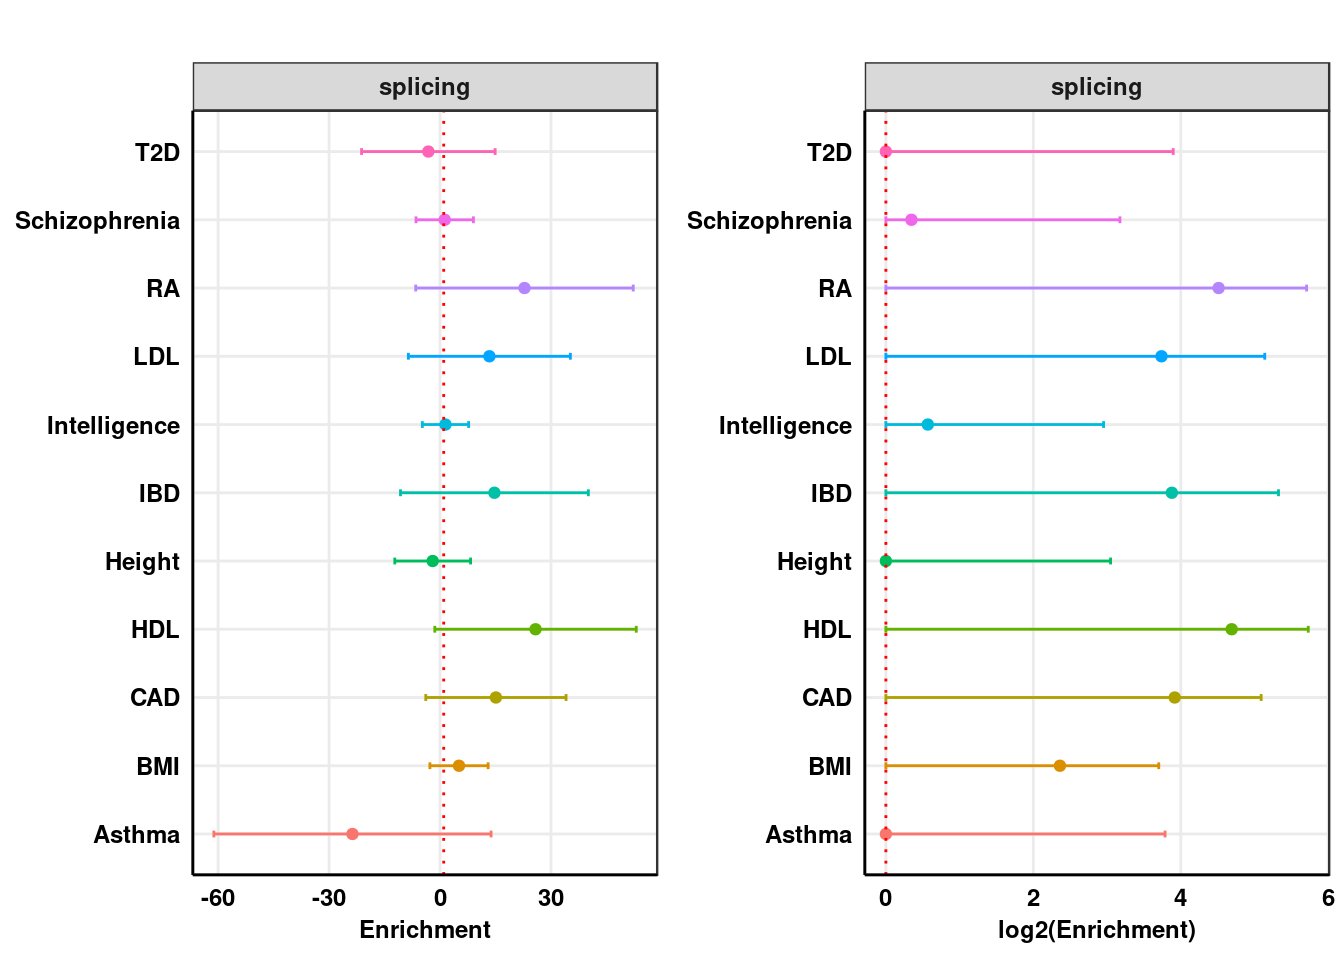
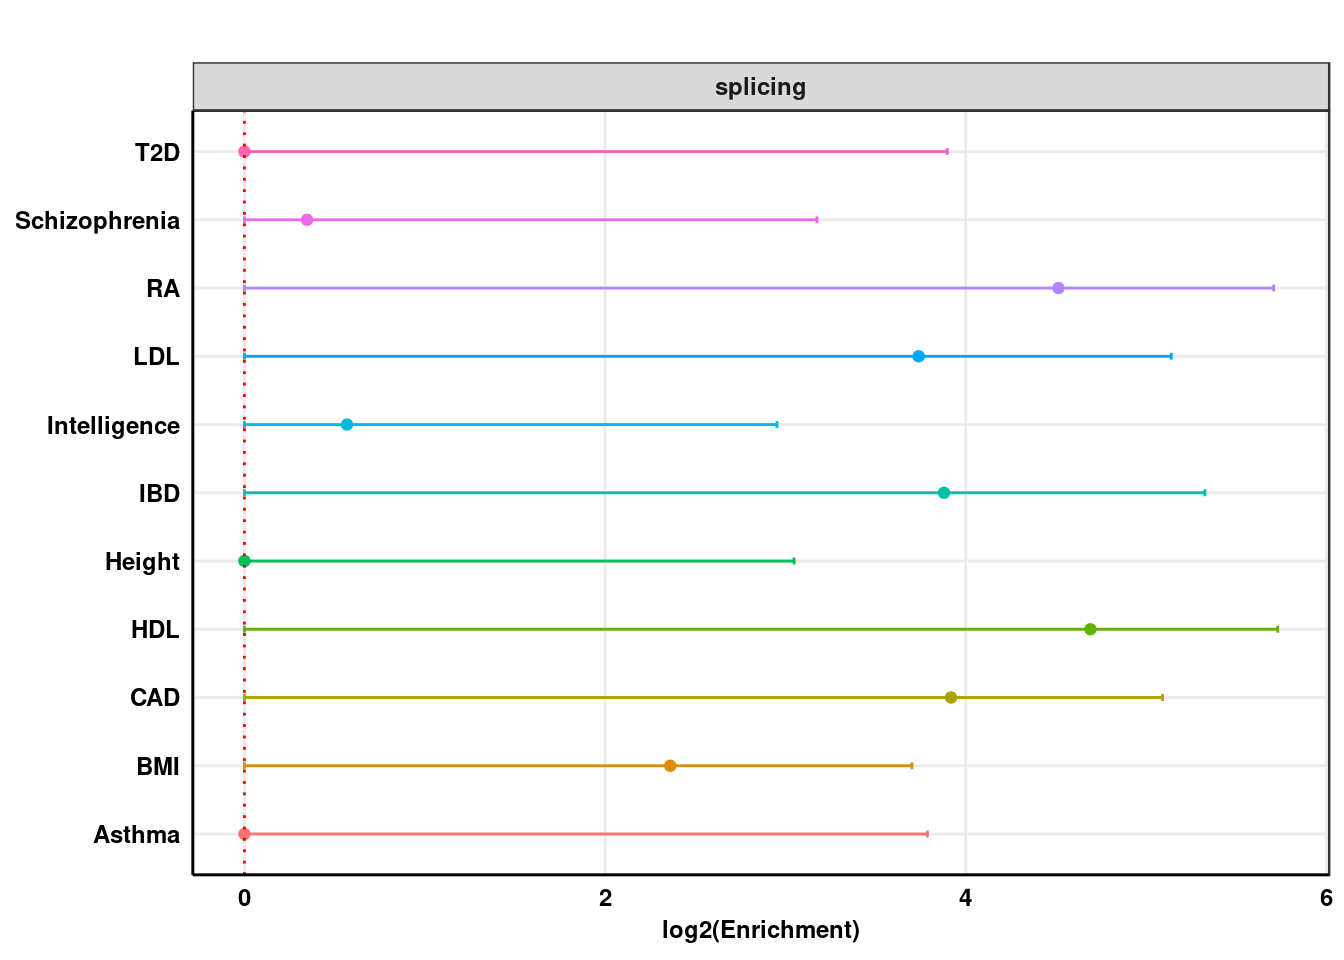
Build site.

diff --git a/docs/sldsc.html b/docs/sldsc.html
@@ -444,16 +444,16 @@ This reproducible <a href="http://rmarkdown.rstudio.com">R Markdown</a> analysis
 <div class="panel panel-default">
 <div class="panel-heading">
 <p class="panel-title">
-<a data-toggle="collapse" data-parent="#workflowr-checks" href="#strongRepositoryversionstrongahrefhttpsgithubcomcdu8sldscsplicingtree79129a3ffae62321b182454f900eae9be9ba866ctargetblank79129a3a"> <span class="glyphicon glyphicon-ok text-success" aria-hidden="true"></span> <strong>Repository version:</strong> <a href="https://github.com/cdu8/sldsc_splicing/tree/79129a3ffae62321b182454f900eae9be9ba866c" target="_blank">79129a3</a> </a>
+<a data-toggle="collapse" data-parent="#workflowr-checks" href="#strongRepositoryversionstrongahrefhttpsgithubcomcdu8sldscsplicingtree70a3cc1c9754718c9ce70edf172eb312eec6d9ectargetblank70a3cc1a"> <span class="glyphicon glyphicon-ok text-success" aria-hidden="true"></span> <strong>Repository version:</strong> <a href="https://github.com/cdu8/sldsc_splicing/tree/70a3cc1c9754718c9ce70edf172eb312eec6d9ec" target="_blank">70a3cc1</a> </a>
 </p>
 </div>
[2 lines of base64/hex data omitted]
 <div class="panel-body">
 <p>
 Great! You are using Git for version control. Tracking code development and connecting the code version to the results is critical for reproducibility.
 </p>
 <p>
-The results in this page were generated with repository version <a href="https://github.com/cdu8/sldsc_splicing/tree/79129a3ffae62321b182454f900eae9be9ba866c" target="_blank">79129a3</a>. See the <em>Past versions</em> tab to see a history of the changes made to the R Markdown and HTML files.
+The results in this page were generated with repository version <a href="https://github.com/cdu8/sldsc_splicing/tree/70a3cc1c9754718c9ce70edf172eb312eec6d9ec" target="_blank">70a3cc1</a>. See the <em>Past versions</em> tab to see a history of the changes made to the R Markdown and HTML files.
 </p>
 <p>
 Note that you need to be careful to ensure that all relevant files for the analysis have been committed to Git prior to generating the results (you can use <code>wflow_publish</code> or <code>wflow_git_commit</code>). workflowr only checks the R Markdown file, but you know if there are other scripts or data files that it depends on. Below is the status of the Git repository when the results were generated:
@@ -499,6 +499,40 @@ Message
 </tr>
 </thead>
 <tbody>
+<tr>
+<td>
+Rmd
+</td>
+<td>
+<a href="https://github.com/cdu8/sldsc_splicing/blob/70a3cc1c9754718c9ce70edf172eb312eec6d9ec/analysis/sldsc.Rmd" target="_blank">70a3cc1</a>
+</td>
+<td>
+cdu8
+</td>
+<td>
+2020-09-18
+</td>
+<td>
+wflow_publish(c(“analysis/sldsc.Rmd”))
+</td>
+</tr>
+<tr>
+<td>
+html
+</td>
+<td>
+<a href="https://rawcdn.githack.com/cdu8/sldsc_splicing/f8d692904ee9ec47d976181617604126caafe6cc/docs/sldsc.html" target="_blank">f8d6929</a>
+</td>
+<td>
+cdu8
+</td>
+<td>
+2020-09-18
+</td>
+<td>
+Build site.
+</td>
+</tr>
 <tr>
 <td>
 Rmd
@@ -897,8 +931,13 @@ result_sLDSC_cont$Color &lt;- factor(result_sLDSC_cont$Disease, levels = trait_n
 </div>
 <div id="top-2" class="section level3">
 <h3>Top 2%</h3>
-<pre class="r"><code>library(gridExtra)
-grid.arrange(ggplot_enrichment(result_sLDSC_top2, title = &quot;&quot;), ggplot_log2_enrichment(result_sLDSC_top2, title = &quot;&quot;), nrow=1, ncol=2)</code></pre>
+<pre class="r"><code>library(cowplot)</code></pre>
+<pre><code>
+Attaching package: &#39;cowplot&#39;</code></pre>
+<pre><code>The following object is masked from &#39;package:ggplot2&#39;:
+
+    ggsave</code></pre>
+<pre class="r"><code>plot_top2 &lt;- ggplot_enrichment(result_sLDSC_top2, title = &quot;&quot;)</code></pre>
 <p><img src="figure/sldsc.Rmd/unnamed-chunk-5-1.png" width="672" style="display: block; margin: auto;" /></p>
 <p>
 <button type="button" class="btn btn-default btn-xs btn-workflowr btn-workflowr-fig" data-toggle="collapse" data-target="#fig-unnamed-chunk-5-1">
@@ -959,6 +998,7 @@ cdu8
 </table>
 </div>
 </div>
+<pre class="r"><code>plot_top2_log2 &lt;- ggplot_log2_enrichment(result_sLDSC_top2, title = &quot;&quot;)</code></pre>
 <p><img src="figure/sldsc.Rmd/unnamed-chunk-5-2.png" width="672" style="display: block; margin: auto;" /></p>
 <p>
 <button type="button" class="btn btn-default btn-xs btn-workflowr btn-workflowr-fig" data-toggle="collapse" data-target="#fig-unnamed-chunk-5-2">
@@ -1019,11 +1059,61 @@ cdu8
 </table>
 </div>
 </div>
+<pre class="r"><code>plot_grid(plot_top2, plot_top2_log2, labels=&quot;AUTO&quot;)</code></pre>
+<p><img src="figure/sldsc.Rmd/unnamed-chunk-5-3.png" width="672" style="display: block; margin: auto;" /></p>
+<p>
+<button type="button" class="btn btn-default btn-xs btn-workflowr btn-workflowr-fig" data-toggle="collapse" data-target="#fig-unnamed-chunk-5-3">
+Past versions of unnamed-chunk-5-3.png
+</button>
+</p>
+<div id="fig-unnamed-chunk-5-3" class="collapse">
+<div class="table-responsive">
+<table class="table table-condensed table-hover">
+<thead>
+<tr>
+<th>
+Version
+</th>
+<th>
+Author
+</th>
+<th>
+Date
+</th>
+</tr>
+</thead>
+<tbody>
+<tr>
+<td>
+<a href="https://github.com/cdu8/sldsc_splicing/blob/93596b93a28d8af4a4b8c5ecf98b634be36d8a7f/docs/figure/sldsc.Rmd/unnamed-chunk-5-3.png" target="_blank">93596b9</a>
+</td>
+<td>
+cdu8
+</td>
+<td>
+2020-09-18
+</td>
+</tr>
+<tr>
+<td>
+<a href="https://github.com/cdu8/sldsc_splicing/blob/635efaf0d599e64fda2ac444624e596f7b6f90d6/docs/figure/sldsc.Rmd/unnamed-chunk-5-3.png" target="_blank">635efaf</a>
+</td>
+<td>
+cdu8
+</td>
+<td>
+2020-09-08
+</td>
+</tr>
+</tbody>
+</table>
+</div>
+</div>
 </div>
 <div id="top-5" class="section level3">
 <h3>Top 5%</h3>
-<pre class="r"><code>library(gridExtra)
-grid.arrange(ggplot_enrichment(result_sLDSC_top5, title = &quot;&quot;), ggplot_log2_enrichment(result_sLDSC_top5, title = &quot;&quot;), nrow=1, ncol=2)</code></pre>
+<pre class="r"><code>library(cowplot)
+plot_top5 &lt;- ggplot_enrichment(result_sLDSC_top5, title = &quot;&quot;)</code></pre>
 <p><img src="figure/sldsc.Rmd/unnamed-chunk-6-1.png" width="672" style="display: block; margin: auto;" /></p>
 <p>
 <button type="button" class="btn btn-default btn-xs btn-workflowr btn-workflowr-fig" data-toggle="collapse" data-target="#fig-unnamed-chunk-6-1">
@@ -1073,6 +1163,7 @@ cdu8
 </table>
 </div>
 </div>
+<pre class="r"><code>plot_top5_log2 &lt;- ggplot_log2_enrichment(result_sLDSC_top5, title = &quot;&quot;)</code></pre>
 <p><img src="figure/sldsc.Rmd/unnamed-chunk-6-2.png" width="672" style="display: block; margin: auto;" /></p>
 <p>
 <button type="button" class="btn btn-default btn-xs btn-workflowr btn-workflowr-fig" data-toggle="collapse" data-target="#fig-unnamed-chunk-6-2">
@@ -1122,11 +1213,61 @@ cdu8
 </table>
 </div>
 </div>
+<pre class="r"><code>plot_grid(plot_top5, plot_top5_log2, labels=&quot;AUTO&quot;)</code></pre>
+<p><img src="figure/sldsc.Rmd/unnamed-chunk-6-3.png" width="672" style="display: block; margin: auto;" /></p>
+<p>
+<button type="button" class="btn btn-default btn-xs btn-workflowr btn-workflowr-fig" data-toggle="collapse" data-target="#fig-unnamed-chunk-6-3">
+Past versions of unnamed-chunk-6-3.png
+</button>
+</p>
+<div id="fig-unnamed-chunk-6-3" class="collapse">
+<div class="table-responsive">
+<table class="table table-condensed table-hover">
+<thead>
+<tr>
+<th>
+Version
+</th>
+<th>
+Author
+</th>
+<th>
+Date
+</th>
+</tr>
+</thead>
+<tbody>
+<tr>
+<td>
+<a href="https://github.com/cdu8/sldsc_splicing/blob/93596b93a28d8af4a4b8c5ecf98b634be36d8a7f/docs/figure/sldsc.Rmd/unnamed-chunk-6-3.png" target="_blank">93596b9</a>
+</td>
+<td>
+cdu8
+</td>
+<td>
+2020-09-18
+</td>
+</tr>
+<tr>
+<td>
+<a href="https://github.com/cdu8/sldsc_splicing/blob/635efaf0d599e64fda2ac444624e596f7b6f90d6/docs/figure/sldsc.Rmd/unnamed-chunk-6-3.png" target="_blank">635efaf</a>
+</td>
+<td>
+cdu8
+</td>
+<td>
+2020-09-08
+</td>
+</tr>
+</tbody>
+</table>
+</div>
+</div>
 </div>
 <div id="top-10" class="section level3">
 <h3>Top 10%</h3>
-<pre class="r"><code>library(gridExtra)
-grid.arrange(ggplot_enrichment(result_sLDSC_top10, title = &quot;&quot;), ggplot_log2_enrichment(result_sLDSC_top10, title = &quot;&quot;), nrow=1, ncol=2)</code></pre>
+<pre class="r"><code>library(cowplot)
+plot_top10 &lt;- ggplot_enrichment(result_sLDSC_top10, title = &quot;&quot;)</code></pre>
 <p><img src="figure/sldsc.Rmd/unnamed-chunk-7-1.png" width="672" style="display: block; margin: auto;" /></p>
 <p>
 <button type="button" class="btn btn-default btn-xs btn-workflowr btn-workflowr-fig" data-toggle="collapse" data-target="#fig-unnamed-chunk-7-1">
@@ -1187,6 +1328,7 @@ cdu8
 </table>
 </div>
 </div>
+<pre class="r"><code>plot_top10_log2 &lt;- ggplot_log2_enrichment(result_sLDSC_top10, title = &quot;&quot;)</code></pre>
 <p><img src="figure/sldsc.Rmd/unnamed-chunk-7-2.png" width="672" style="display: block; margin: auto;" /></p>
 <p>
 <button type="button" class="btn btn-default btn-xs btn-workflowr btn-workflowr-fig" data-toggle="collapse" data-target="#fig-unnamed-chunk-7-2">
@@ -1247,11 +1389,13 @@ cdu8
 </table>
 </div>
 </div>
+<pre class="r"><code>plot_grid(plot_top10, plot_top10_log2, labels=&quot;AUTO&quot;)</code></pre>
+<p><img src="figure/sldsc.Rmd/unnamed-chunk-7-3.png" width="672" style="display: block; margin: auto;" /></p>
 </div>
 <div id="continuous" class="section level3">
 <h3>Continuous</h3>
-<pre class="r"><code>library(gridExtra)
-grid.arrange(ggplot_enrichment(result_sLDSC_cont, title = &quot;&quot;), ggplot_log2_enrichment(result_sLDSC_cont, title = &quot;&quot;), nrow=1, ncol=2)</code></pre>
+<pre class="r"><code>library(cowplot)
+plot_cont &lt;- ggplot_enrichment(result_sLDSC_cont, title = &quot;&quot;)</code></pre>
 <p><img src="figure/sldsc.Rmd/unnamed-chunk-8-1.png" width="672" style="display: block; margin: auto;" /></p>
 <p>
 <button type="button" class="btn btn-default btn-xs btn-workflowr btn-workflowr-fig" data-toggle="collapse" data-target="#fig-unnamed-chunk-8-1">
@@ -1290,6 +1434,7 @@ cdu8
 </table>
 </div>
 </div>
+<pre class="r"><code>plot_cont_log2 &lt;- ggplot_log2_enrichment(result_sLDSC_cont, title = &quot;&quot;)</code></pre>
 <p><img src="figure/sldsc.Rmd/unnamed-chunk-8-2.png" width="672" style="display: block; margin: auto;" /></p>
 <p>
 <button type="button" class="btn btn-default btn-xs btn-workflowr btn-workflowr-fig" data-toggle="collapse" data-target="#fig-unnamed-chunk-8-2">
@@ -1328,6 +1473,8 @@ cdu8
 </table>
 </div>
 </div>
+<pre class="r"><code>plot_grid(plot_cont, plot_cont_log2, labels=&quot;AUTO&quot;)</code></pre>
+<p><img src="figure/sldsc.Rmd/unnamed-chunk-8-3.png" width="672" style="display: block; margin: auto;" /></p>
 <br>
 <p>
 <button type="button" class="btn btn-default btn-workflowr btn-workflowr-sessioninfo" data-toggle="collapse" data-target="#workflowr-sessioninfo" style="display: block;">
@@ -1356,7 +1503,7 @@ attached base packages:
 [8] base     
 
 other attached packages:
-[1] gridExtra_2.3     doParallel_1.0.14 iterators_1.0.10  foreach_1.4.4    
+[1] cowplot_0.9.4     doParallel_1.0.14 iterators_1.0.10  foreach_1.4.4    
 [5] ggplot2_3.1.1    
 
 loaded via a namespace (and not attached):
